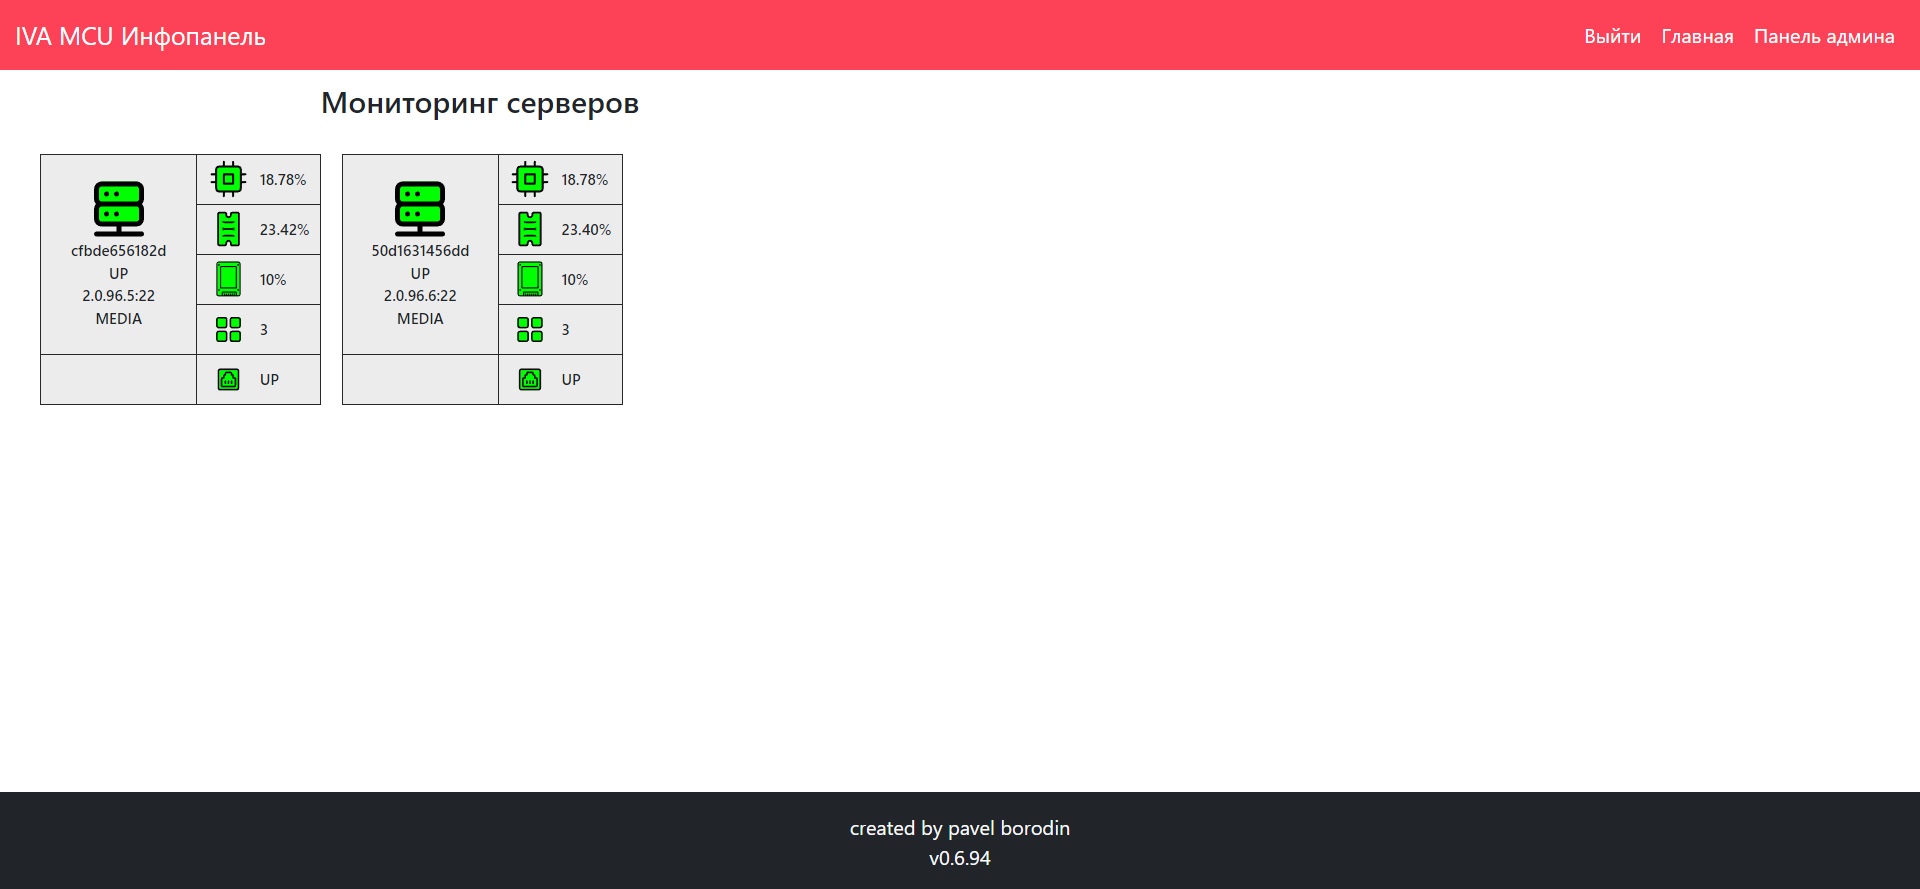
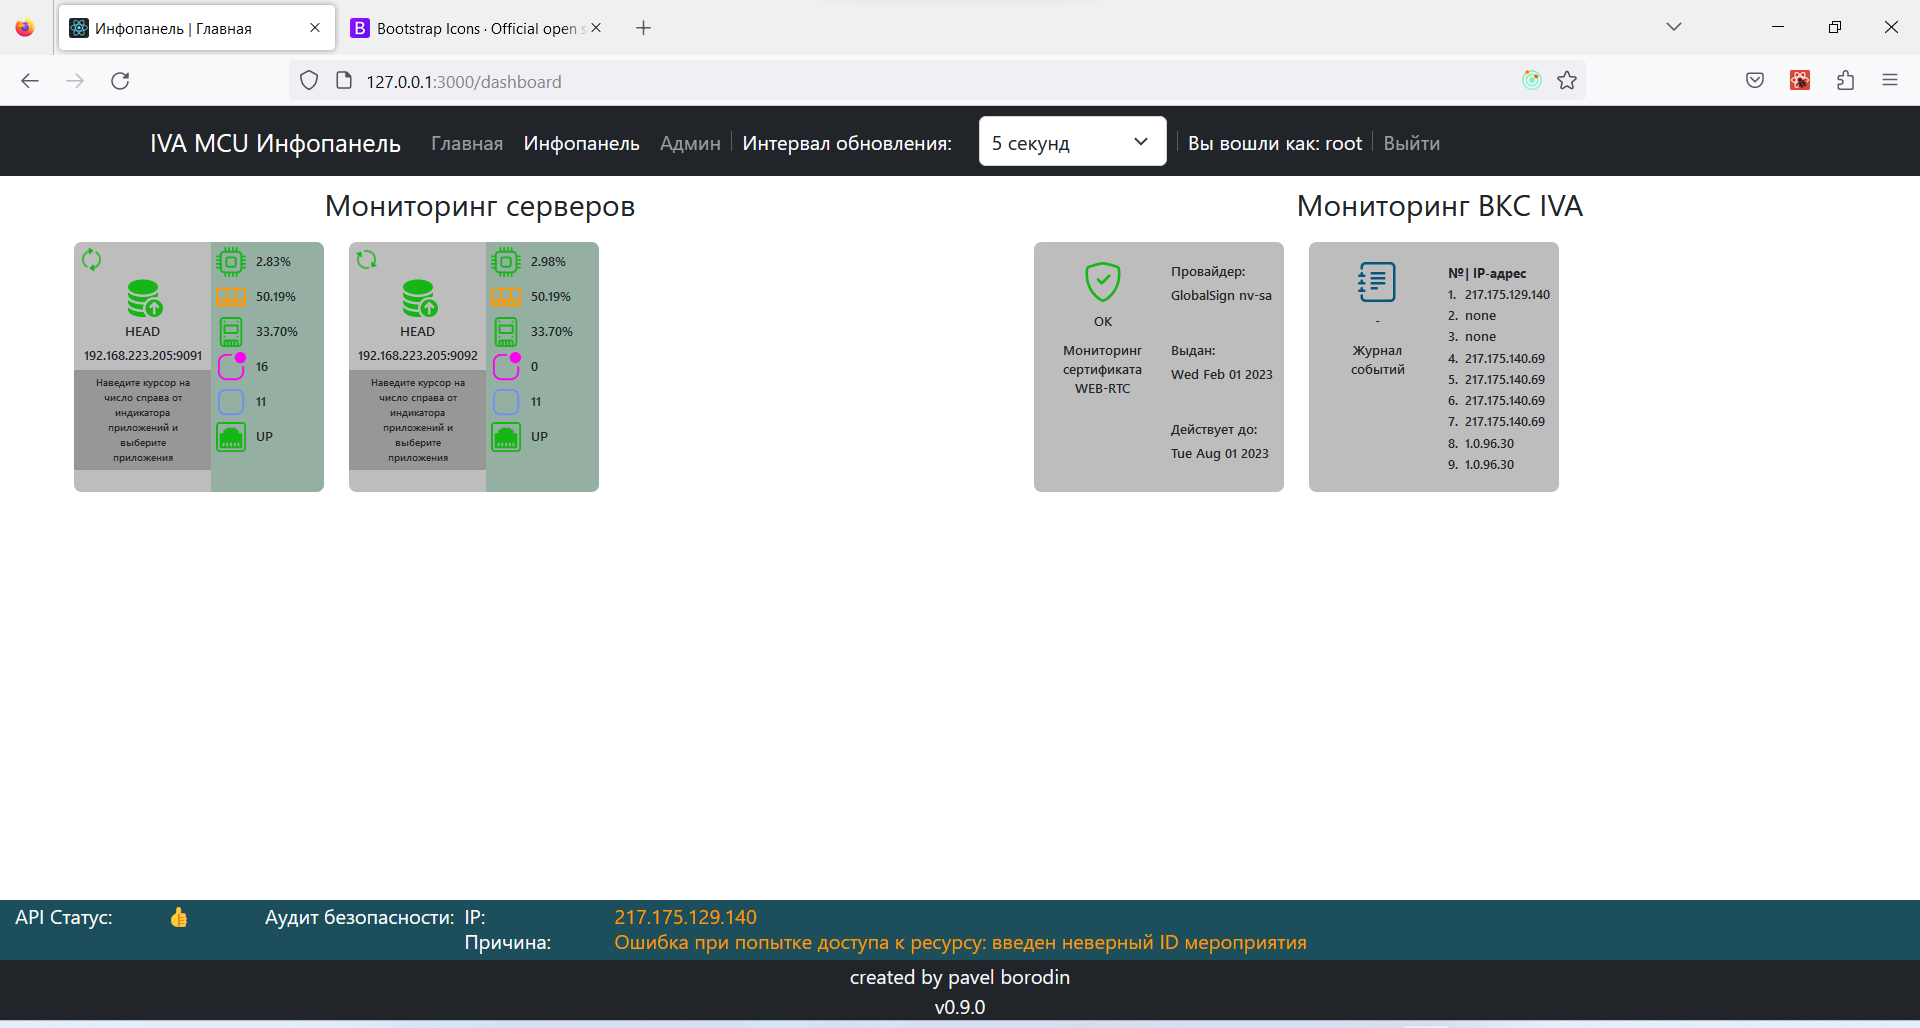
фронт v0.9.0... бэк v0.9.0.... ivcs v0.6.0
SAVE

Готовы фильтры для журнала событий

diff --git a/monitor_serv/dashboard_users/serializers.py b/monitor_serv/dashboard_users/serializers.py
@@ -87,7 +87,7 @@ class LoginUserSerializer(serializers.ModelSerializer):
         password = data.get('password')
 
         try:
-            user = CustomUser.objects.get()
+            user = CustomUser.objects.get(username=username)
 
             if user.check_password(password):
                 if not user.is_active:

diff --git a/README.md b/README.md
@@ -7,24 +7,70 @@ Created by pavelbeard
 Введение:
   <ul>
     <li><a href="#about">Краткое описание</a></li>
-    <li>Как установить?</li>
+    <li><a href="#howToInstall">Как установить?</a></li>
     <li>Как пользоваться?</li>
   </ul>
 
 <div id="about">
+<h2>1. Краткое описание</h2>
     Сей веб-сервис используется для мониторинга системы ВКС IVA MCU.<br> 
-    Главная страница выглядит так:<br><br>
+    <div style="text-align: center">Главная страница выглядит так:</div><br><br>
     <img src="doc_pics/img.png" alt="main"><br><br>
     На ней изображен мониторинг серверов IVA. На каждом сервере мониторятся:
     <ul>
         <li>Процессор</li>
         <li>ОЗУ</li>
         <li>Диски(виртуальные) и файловые системы</li>
-        <li>Состояние приложений</li>
+        <li>Состояние потоков приложений и служб</li>
+        <li>Состояние приложений и служб</li>
         <li>Состояние сетевых интерфейсов</li>
-        <li>Ожидается детализированный мониторинг</li>
-        <li>Ожидается мониторинг конференций</li>
+        <li>Мероприятия</li>
     </ul>
+    В правой части панели отображен мониторинг журнала событий
+    и возраст TLS сертификата 
+    <br>
+    <br>
+    В будущем ожидается:
+    <ul>
+        <li>графики</li>
+        <li>панель мероприятий</li>
+        <li>панель лицензий</li>
+        <li>панель пользователей IVA</li>
+    </ul>
+</div>
+<div id="howToInstall">
+<h2>2. Как установить?</h2>
+
+<div>
+<ul>
+    <li>Скачиваем репозиторий</li>
+    <pre>
+    wget https://github.com/pavelbeard/iva_dashboard_new
+    </pre>
+    <li>Заходим в папку iva_dashboard_new</li>
+    <pre>
+    cd iva_dashboard_new
+    </pre>
+    <li>Запускаем команду сборки docker-compose</li>
+    <pre>
+    docker-compose -f prod.docker-compose.yml up -d --build
+</pre>
+</ul>
+</div> 
+<div id="howToUse">
+<h2>3. Как использовать?</h2>
+<ul>
+    <li>Регистрируемся в системе
+    <br>
+    <img src="doc_pics/register.png" alt="register">
+    </li>
+    <li>
+    Ожидаем активации вашего аккаунта администратором
+    <br>
+    <img src="doc_pics/register_await.png" alt="register_await">
+    </li>
+</ul>
+</div>
 <footer>
-    <p>В приложении использовались иконки <b><a href="https://icons8.ru/">https://icons8.ru/</a></b></p>
+    <p>В приложении использовались иконки <b><a href="https://icons.getbootstrap.com/">Bootstrap icons</a></b></p>
 </footer>
